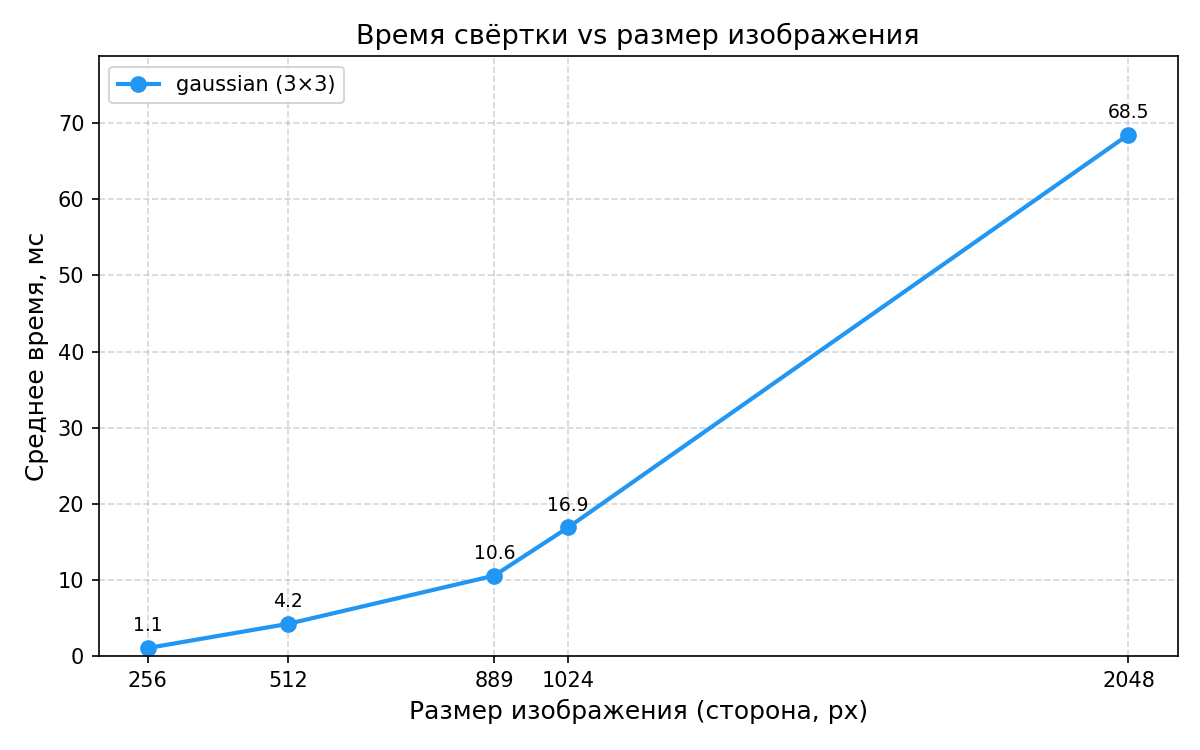
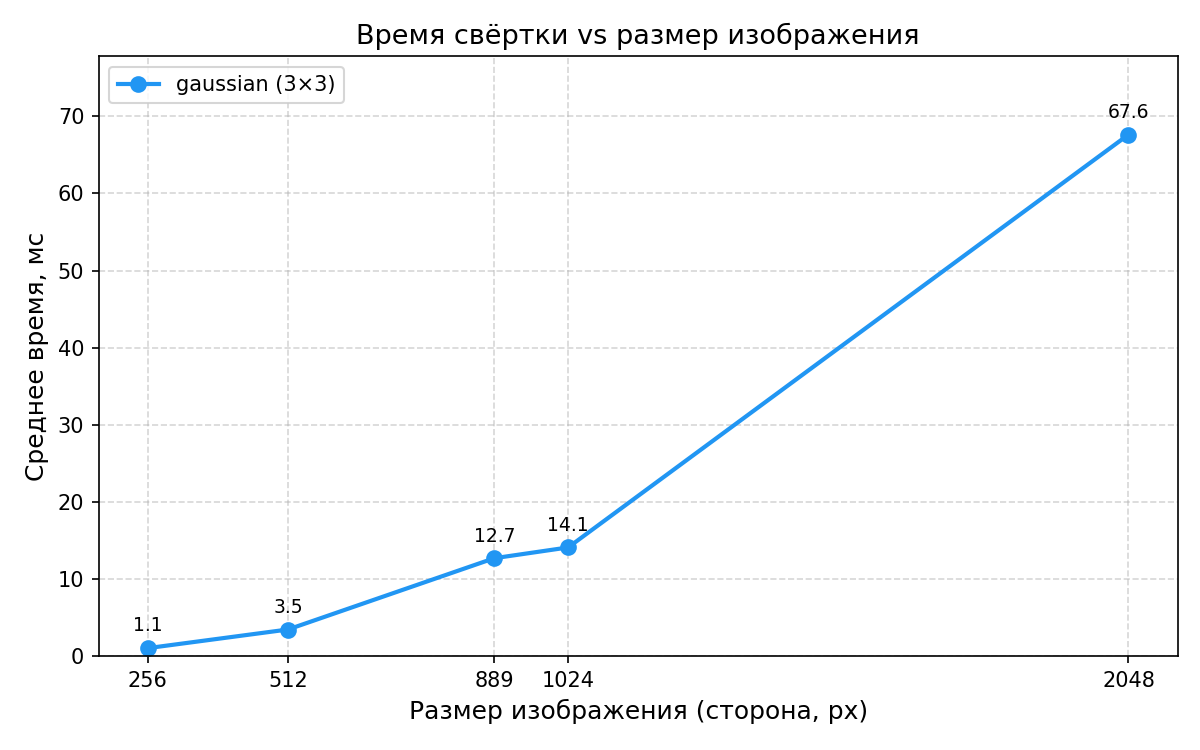
docs(task1): обновлены графики и анализ под актуальные результаты JMH

diff --git a/docs/task1.md b/docs/task1.md
@@ -4,7 +4,7 @@
 
 ## Бенчмарки
 
-Инструмент: JMH 1.37, JDK 21, 1 fork, 3 warmup + 5 measurement iterations по 10 с каждая.
+Инструмент: JMH 1.36, JDK 21, 1 fork, 3 warmup + 5 measurement iterations по 10 с каждая.
 
 **График 1** — зависимость времени от размера изображения (ядро: gaussian 3×3):
 
@@ -14,12 +14,20 @@
 
 ![Время vs размер ядра](plots/bench_kernel_size.png)
 
-## Краткий анализ
+## Анализ
 
-**Зависимость от размера изображения** подтверждает теоретическую сложность O(W·H): при учетверении числа пикселей (256→512, 512→1024, 1024→2048) время растёт примерно в 4 раза — 1.1 → 4.2 → 16.9 → 68.5 мс.
+### График 1
 
-**Зависимость от размера ядра** демонстрирует O(K²): переход с 3×3 (gaussian, 14.1 мс) на 5×5 (42.1 мс) даёт рост ~3×, а на 9×9 (motion-blur, 134.1 мс) — ~9.5×, что близко к теоретическому (25/9 ≈ 2.8× и 81/9 = 9×).
+Время свёртки с ядром gaussian 3×3 на разных размерах изображения: 256² — 1.1 мс, 512² — 3.5 мс, 889² — 12.7 мс, 1024² — 14.1 мс, 2048² — 67.6 мс.
 
-Небольшое отклонение box-blur (17.7 мс) от gaussian (14.1 мс) при одинаковом размере 3×3 объясняется структурой ядра: box-blur имеет 9 ненулевых элементов против 5 у базового gaussian — JIT хуже оптимизирует плотное умножение.
+При учетверении числа пикселей (256→512, 512→1024) время растёт примерно в 4 раза, что соответствует теоретической сложности O(W·H). Переход 1024→2048 даёт рост ×4.8 — небольшое превышение объясняется выходом данных из L2-кэша на больших размерах.
 
-Последовательная реализация является базовой линией для сравнения с параллельными стратегиями в задаче 2.
+### График 2
+
+Время свёртки на изображении 1024×1024 для разных ядер: box-blur 3×3 — 17.2 мс, gaussian 3×3 — 17.0 мс, gaussian 5×5 — 42.1 мс, motion-blur 9×9 — 130.4 мс.
+
+Зависимость от размера ядра соответствует O(K²): переход 3×3 → 5×5 даёт рост ×2.5 (теоретически 25/9 ≈ 2.78), а 3×3 → 9×9 — ×7.7 (теоретически 81/9 = 9). Небольшое отклонение от теории связано с тем, что внутренний цикл по ядру укладывается в кэш и не масштабируется идеально линейно.
+
+box-blur и gaussian при одинаковом размере 3×3 показывают близкие результаты (17.2 и 17.0 мс) — реализация выполняет фиксированное число операций умножения независимо от значений коэффициентов.
+
+Последовательная реализация служит базовой линией для сравнения с параллельными стратегиями в [задаче 2](task2.md).
